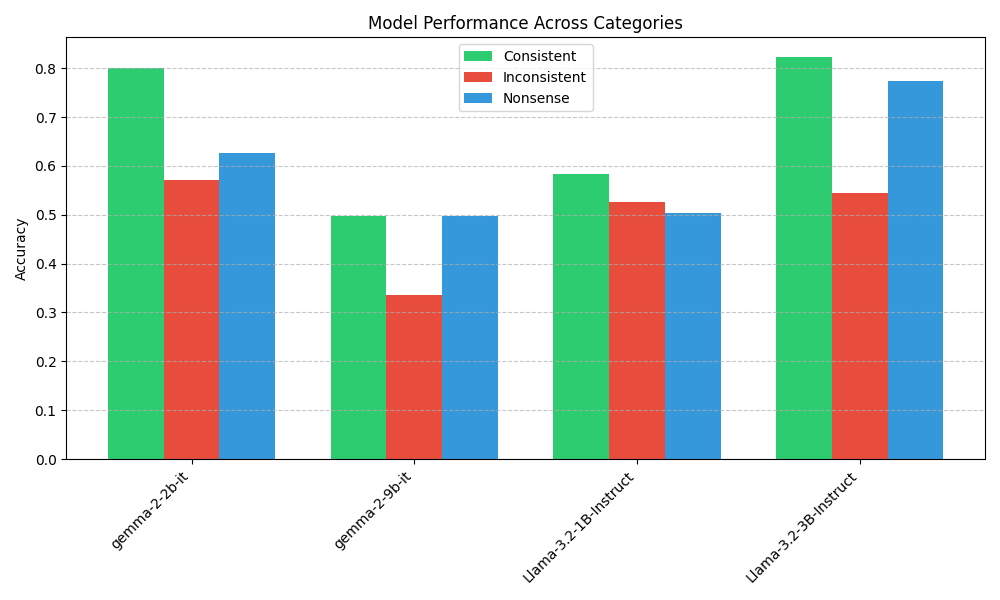
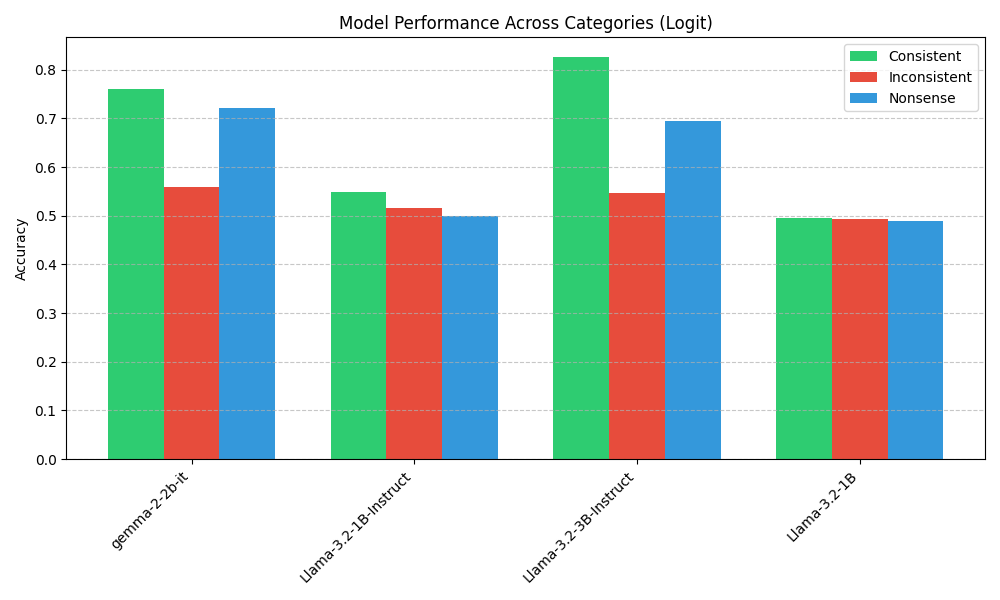
additional model eval

diff --git a/evaluate.py b/evaluate.py
@@ -7,6 +7,35 @@ import numpy as np
 import torch
 from tqdm import tqdm
 
+class LogitAccuracy:
+    def __init__(self, data_type):
+        self.data_type = data_type
+        self.correct = 0
+        self.total = 0
+
+    def update(self, correct_logit, incorrect_logit):
+        self.total += 1
+        if correct_logit > incorrect_logit:
+            self.correct += 1
+
+    def get_acc(self):
+        return self.correct / self.total
+
+class ExactMatchAccuracy:
+    def __init__(self, data_type):
+        self.data_type = data_type
+        self.correct = 0
+        self.total = 0
+        
+    def update(self, generation, gold):
+        self.total += 1
+        if generation == gold:
+            self.correct += 1
+
+    def get_acc(self):
+        return self.correct / self.total
+
+
 def parse_args():
     parser = argparse.ArgumentParser()
     parser.add_argument(
@@ -30,6 +59,20 @@ def parse_args():
         help="path to data",
     )
 
+    parser.add_argument(
+        "-v",
+        "--valid_token",
+        default=" Yes",
+        help="token to use for responding ``valid''",
+    )
+
+    parser.add_argument(
+        "-i",
+        "--invalid_token",
+        default=" No",
+        help="token to use for responding ``invalid''",
+    )
+
     argv = sys.argv[1:]
     args, _ = parser.parse_known_args(argv)
 
@@ -42,25 +85,28 @@ def parse_args():
 
 def eval_prompt(question):
     return f"""
-    Answer this question with Yes or No. Question: {question} Answer:\n
+    Answer this question with Yes or No. Question: {question} Answer:
     """
 
 def get_model_and_tokenizer(model_str, device):
     """Helper function to get model"""
     tokenizer = AutoTokenizer.from_pretrained(model_str)
-    tokenizer.pad_token = tokenizer.eos_token
+    #tokenizer.pad_token = tokenizer.eos_token
     model = AutoModelForCausalLM.from_pretrained(model_str, torch_dtype=torch.bfloat16)
     model.to(device)
     return model, tokenizer
 
 
-def inference(model, tokenizer, data, args):
-    consistent_correct = 0
-    inconsistent_correct = 0
-    nonsense_correct = 0
-
-    valid_tok = tokenizer(" Yes")["input_ids"][1]
-    invalid_tok = tokenizer(" No")["input_ids"][1]
+def evaluate(model, tokenizer, data, args):
+    consistent_logit_acc = LogitAccuracy("consistent")
+    inconsistent_logit_acc = LogitAccuracy("inconsistent")
+    nonsense_logit_acc = LogitAccuracy("nonsense")
+    consistent_exact_match_acc = ExactMatchAccuracy("consistent")
+    inconsistent_exact_match_acc = ExactMatchAccuracy("inconsistent")
+    nonsense_exact_match_acc = ExactMatchAccuracy("nonsense")
+    
+    valid_tok = tokenizer(args.valid_token)["input_ids"][1]
+    invalid_tok = tokenizer(args.invalid_token)["input_ids"][1]
 
     for i, row in tqdm(data.iterrows(), total=len(data)):
         question = row["prompt"]
@@ -78,35 +124,31 @@ def inference(model, tokenizer, data, args):
             correct_tok = invalid_tok
             incorrect_tok = valid_tok
         
-        correct = outputs[0, -1, correct_tok] > outputs[0, -1, incorrect_tok]
+        max_token = torch.argmax(outputs[0, -1, :]).item()
+        max_prob_tok = tokenizer.decode(max_token).lower().strip()
+        
+        if max_token not in [valid_tok, invalid_tok]:
+            print(f"Max token {max_token} ({tokenizer.decode(max_token)}) not in {valid_tok} or {invalid_tok}")
+            continue
 
-        if correct.cpu():
-            if dataset_type == "consistent":
-                consistent_correct += 1
-            elif dataset_type == "inconsistent":
-                inconsistent_correct += 1
-            else:
-                nonsense_correct += 1
-
-    return consistent_correct, inconsistent_correct, nonsense_correct
-
-
-def evaluate(model, tokenizer, data, args):
-    consistent_correct, inconsistent_correct, nonsense_correct = inference(model, tokenizer, data, args)
-
-    consistent_total = len(data[data["dataset_type"] == "consistent"])
-    inconsistent_total = len(data[data["dataset_type"] == "inconsistent"])
-    nonsense_total = len(data[data["dataset_type"] == "nonsense"])
-
-    consistent_acc = consistent_correct / consistent_total
-    inconsistent_acc = inconsistent_correct / inconsistent_total
-    nonsense_acc = nonsense_correct / nonsense_total
+        if dataset_type == "consistent":
+            consistent_logit_acc.update(outputs[0, -1, correct_tok], outputs[0, -1, incorrect_tok])
+            consistent_exact_match_acc.update(max_prob_tok, gold)
+        elif dataset_type == "inconsistent":
+            inconsistent_logit_acc.update(outputs[0, -1, correct_tok], outputs[0, -1, incorrect_tok])
+            inconsistent_exact_match_acc.update(max_prob_tok, gold)
+        else:
+            nonsense_logit_acc.update(outputs[0, -1, correct_tok], outputs[0, -1, incorrect_tok])
+            nonsense_exact_match_acc.update(max_prob_tok, gold)
 
     return {
         "model": [args.model],
-        "consistent_acc": [consistent_acc],
-        "inconsistent_acc": [inconsistent_acc],
-        "nonsense_acc": [nonsense_acc]
+        "consistent_logit_acc": [consistent_logit_acc.get_acc()],
+        "inconsistent_logit_acc": [inconsistent_logit_acc.get_acc()],
+        "nonsense_logit_acc": [nonsense_logit_acc.get_acc()],
+        "consistent_exact_match_acc": [consistent_exact_match_acc.get_acc()],
+        "inconsistent_exact_match_acc": [inconsistent_exact_match_acc.get_acc()],
+        "nonsense_exact_match_acc": [nonsense_exact_match_acc.get_acc()]
     }
 
 

diff --git a/plot.py b/plot.py
@@ -23,13 +23,13 @@ x = np.arange(len(models))
 width = 0.25
 
 # Plot bars for each category
-ax.bar(x - width, results_df['consistent_acc'], width, label='Consistent', color='#2ecc71')
-ax.bar(x, results_df['inconsistent_acc'], width, label='Inconsistent', color='#e74c3c')
-ax.bar(x + width, results_df['nonsense_acc'], width, label='Nonsense', color='#3498db')
+ax.bar(x - width, results_df['consistent_logit_acc'], width, label='Consistent', color='#2ecc71')
+ax.bar(x, results_df['inconsistent_logit_acc'], width, label='Inconsistent', color='#e74c3c')
+ax.bar(x + width, results_df['nonsense_logit_acc'], width, label='Nonsense', color='#3498db')
 
 # Customize plot
 ax.set_ylabel('Accuracy')
-ax.set_title('Model Performance Across Categories')
+ax.set_title('Model Performance Across Categories (Logit)')
 ax.set_xticks(x)
 ax.set_xticklabels(models, rotation=45, ha='right')
 ax.legend()
@@ -40,4 +40,22 @@ plt.tight_layout()
 
 # Save plot
 plt.savefig('results/model_comparison.png')
+plt.close()
+
+# similarly plot the exact match accuracy
+fig, ax = plt.subplots(figsize=(10, 6))
+
+ax.bar(x - width, results_df['consistent_exact_match_acc'], width, label='Consistent', color='#2ecc71')
+ax.bar(x, results_df['inconsistent_exact_match_acc'], width, label='Inconsistent', color='#e74c3c')
+ax.bar(x + width, results_df['nonsense_exact_match_acc'], width, label='Nonsense', color='#3498db')
+
+ax.set_ylabel('Accuracy')
+ax.set_title('Model Performance Across Categories (Exact Match)')
+ax.set_xticks(x)
+ax.set_xticklabels(models, rotation=45, ha='right')
+ax.legend()
+ax.grid(axis='y', linestyle='--', alpha=0.7)
+
+plt.tight_layout()
+plt.savefig('results/model_comparison_exact_match.png')
 plt.close()

diff --git a/temp.py b/temp.py
@@ -1,0 +1,17 @@
+from transformers import AutoTokenizer
+
+# Initialize the tokenizer
+tokenizer = AutoTokenizer.from_pretrained("google/gemma-2-2b-it")
+
+# Get the token ID 3553
+token_id = 1718
+
+# Decode the token ID to see what it represents
+token = tokenizer.decode([token_id])
+print(f"Token ID {token_id} represents: {token}")
+
+# You can also see the token in the vocabulary
+vocab = tokenizer.get_vocab()
+for word, id in vocab.items():
+    if id == token_id:
+        print(f"Found in vocabulary: {word}")
